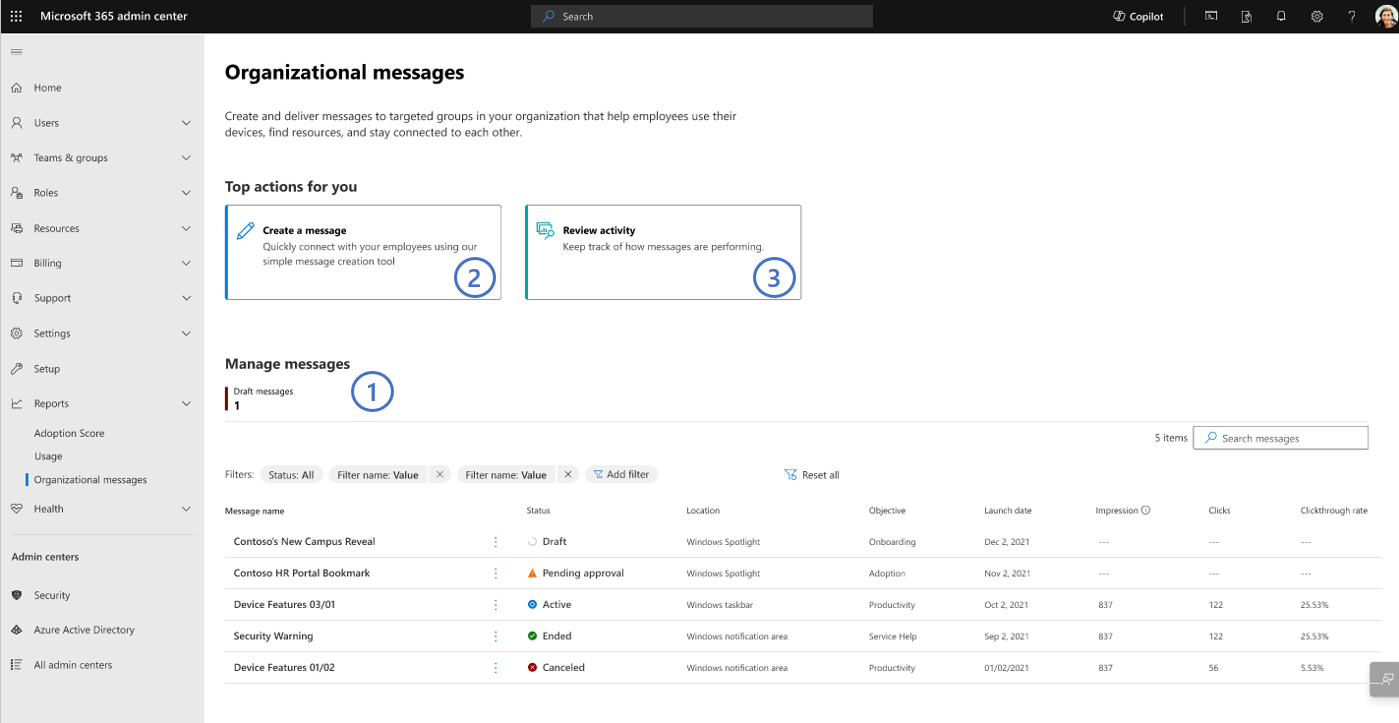
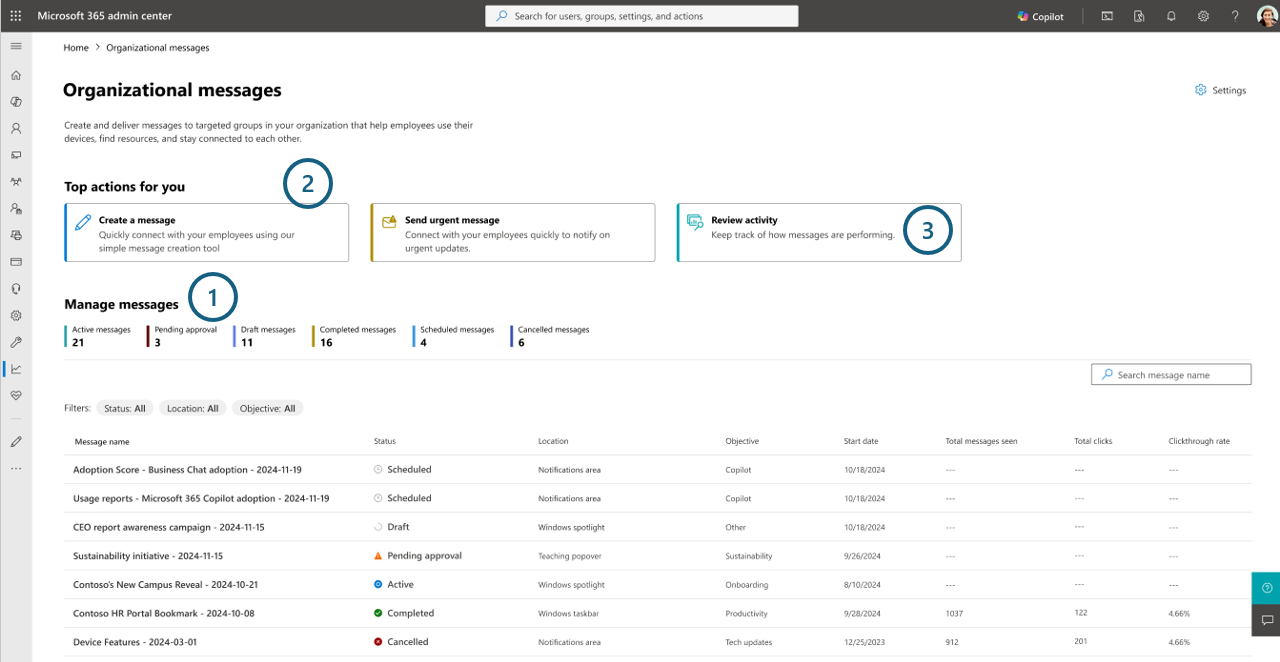
PM updates

diff --git a/microsoft-365/admin/misc/organizational-messages-microsoft-365.md b/microsoft-365/admin/misc/organizational-messages-microsoft-365.md
@@ -80,7 +80,7 @@ Before working with organizational messages, make sure your team satisfies the f
   - For example, any message configured to be delivered to a Windows channel, like Windows Spotlight, requires that recipients use **Windows 11 Enterprise**.
 
 > [!IMPORTANT]
-> During our preview period, Organizational messages preview experiences were not restricted based on the licenses held by participating tenants, authors, approvers, or message recipients. However, now that the product is in general availability, some organizational messages experiences are restricted to particular Microsoft licenses. To learn more, see [Premium features](#premium-features).
+> During our preview period, Organizational messages preview experiences were not restricted based on the licenses held by participating tenants, authors, approvers, or message recipients. However, now that the product is in general availability, some organizational messages experiences are restricted to particular Microsoft licenses. To learn more, see [Advanced features](#advanced-features).
 
 ## Get started
 
@@ -184,7 +184,7 @@ There are two primary forms of message creation that are enabled in this experie
 1. **Fully customized creation** (or 'create your own') – this is an open-ended format of entering in arbitrary content for messages, allowing your team to make messages that include your company name or other specifics that are unique to your company, group, or team. For example, an author can select ‘create your own’ and type all of the words of the message themselves.
 
 > [!NOTE]
-> The ability to create fully customized messages is enabled if your organization has at least one Microsoft license as described in the [Premium features](#premium-features) section.
+> The ability to create fully customized messages is enabled if your organization has at least one Microsoft license as described in the [Advanced features](#advanced-features) section.
 
 2. **Premade messages** (or ‘templatized’ messages) – this is a method of selecting and customizing content that is partially created by Microsoft for general purpose use. For example, Microsoft might provide various generic messages that your team can pick and add your logo and URL to drive awareness of a software update.
 
@@ -217,7 +217,7 @@ This advanced targeting in organizational messages can be enabled using the foll
 5. Select the “Organizational attributes” checkbox and then the “Turn on selected filters” button.
 
 > [!NOTE]
-> The ability to use advanced targeting options is enabled if your organization has at least one Microsoft license as described in the [Premium features](#premium-features) section.
+> The ability to use advanced targeting options is enabled if your organization has at least one Microsoft license as described in the [Advanced features](#advanced-features) section.
 
 ### How to create a message by copying an existing message
 
@@ -238,7 +238,7 @@ This advanced targeting in organizational messages can be enabled using the foll
 
 ### Urgent delivery
 
-For some time-sensitive communications, admins and other communicators might need to get a message out fast. For example, when an event is occurring on a corporate campus or a service outage has begun, admins might need to quickly broadcast such events to all employees so they can be prepared. To support communications in such events, admins in Microsoft 365 admin center will be able to select the ‘Urgent messages’ button in the “Top Actions” section.
+For some time-sensitive communications, admins and other communicators might need to get a message out fast. For example, when an event is occurring on a corporate campus or a service outage has begun, admins might need to quickly broadcast such events to some employees so they can be prepared. To support communications in such events, admins in Microsoft 365 admin center will be able to select the ‘Urgent messages’ button in the “Top Actions” section.
 
 The message creation experience for an urgent message is similar to the flow for creating other messages with these exceptions:
 
@@ -268,35 +268,34 @@ If you or your team would like to work with your tenant’s message performance 
 
 2. Select the **Export to CSV** button and save the file locally.
 
-## Premium features
+## Advanced features
 
-Starting with general availability, organizational messages will also introduce the concept of ‘premium’ features.  These experiences are ones within the Organizational messages Microsoft 365 admin center which have tenant and end user requirements as follows:
+Starting with general availability, organizational messages will also introduce the concept of ‘advanced’ features.  These experiences are ones within the Organizational messages Microsoft 365 admin center which have tenant and end user requirements as follows:
 
-### Tenant - accessing premium features when creating messages
+### Tenant - accessing advanced features when creating messages
 
-Premium features will be accessible to admins within Organizational messages in Microsoft 365 admin center when their tenant has one of the following:
+Advanced features will be accessible to admins within Organizational messages in Microsoft 365 admin center when their tenant has one of the following:
 
 1. -1+ Microsoft 365 E3-E5 licenses
-2. -1+ Office 365 E3-E5 licenses
+1. -1+ Office 365 E3-E5 licenses
+1. -1+ Windows 365 E3-E5 licenses
 
-    -1+ Windows 365 E3-E5 licenses
+### End user – receiving messages with advanced features
 
-### End user – receiving messages with premium features
-
-End users within a tenant will be eligible to receive messages created using premium features when these end users personally have one of the following:
+End users within a tenant will be eligible to receive messages created using advanced features when these end users personally have one of the following:
 
 - Microsoft 365 E3-E5 license
 - Office 365 E3-E5 license
 - Windows 365 E3-E5 license
 
-### Current premium features
+### Current advanced features
 
-For general availability, the premium features in Organizational messages in Microsoft 365 admin center are the following:
+For general availability, the advanced features in Organizational messages in Microsoft 365 admin center are the following:
 
 1. Fully customized message creation
 
 > [!NOTE]
-> In general availability, message authors whose tenant satisfies premium feature requirements will be able to Edit a templatized message within the message creation flow.
+> In general availability, message authors whose tenant satisfies advanced feature requirements will be able to Edit a templatized message within the message creation flow.
 
 2. Advanced targeting – group level aggregates (Department, Location, Company)
 
@@ -364,7 +363,7 @@ If using Device Restrictions, follow these steps:
 
 For non-urgent messages, after your message has been scheduled by the Organizational Messages platform (for example, after approval from your Organizational Messages approvers is acquired as needed), at the earliest, it will take a few hours before the message will be eligible to be delivered to end user devices. For example, if you set the Start Date to be now/today, you should expect a few hours before any end user devices in your testing tenant receive the message payload.
 
-Further, Windows buffers messages on a set period for each of the channels. (In other words, this experience is delivered on a ‘pull’ model.) So, expect that your message might take 24 or more hours for targeted end users in your testing tenant to receive and render the message as their devices might be configured to request content at different times.
+Further, Windows buffers messages on a set period for each of the channels. (In other words, this experience is delivered on a ‘pull’ model.) So, expect that your message might take 24 or more hours for targeted end users in your tenant to receive and render the message as their devices might be configured to request content at different times.
 
 Once your message has been actively delivering for over 24 hours, you can return to the Manage experience to review the latest delivery data for your message.
 
@@ -391,7 +390,7 @@ The Organizational messages centralized experience is the ‘one-stop-shop’ fo
 
 ### Why do I need to update my MDM policies?
 
-The MDM policies listed under Prerequisites control whether the service delivering the messages is able to access each location where organizational messages could be delivered. Previously, the CSPs only affected consumer scenarios and controlled whether Microsoft messaging can be delivered, however, since we’re using the same service, the policies affect admin-created messages as well.
+The MDM policies listed under **Setting tenant policies** control whether the service delivering the messages is able to access each location where organizational messages could be delivered. Previously, the CSPs only affected consumer scenarios and controlled whether Microsoft messaging can be delivered, however, since we’re using the same service, the policies affect admin-created messages as well.
 
 ### How can I get my MDM settings for troubleshooting purposes?
 
@@ -473,11 +472,11 @@ For example, if the Organizational Messages Writer (admin) selects message A to 
 
 For example, if the Organizational Messages Writer (admin) has their Microsoft 365 admin center product language set to French when they create their message B from scratch, end users with related product language set to English will not receive the message B. However, end users with French set as their related product language will qualify to receive the message B.
 
-### Does Organizational messages support government environments, such as GCC, GCCH, etc.?
+### Does Organizational Messages support government environments, such as GCC, GCCH, etc.?
 
 No, not at this time.
 
-### Our team previously authored messages for the Windows Get Started location within the Organizational messages experience in Intune/Microsoft Endpoint Manager – can we still do that in this experience within Microsoft 365 admin center? 
+### Our team previously authored messages for the Windows Get Started location within the Organizational messages experience in Intune/Microsoft Endpoint Manager – can we still do that in this experience within Microsoft 365 admin center?
 
 Any Get Started messages that you created in Organizational messages experience within Intune/Microsoft Endpoint Manager that have not completed can be viewed within the Microsoft 365 admin center experience.  However, new Get Started message creation is not yet supported at this time.
 
@@ -491,8 +490,8 @@ Based on customer feedback, organizational messages now delivers to both Windows
 
 ### My tenant only wants our end users to see messages from us, not Microsoft; how can we do that?
 
-After your admins enable all of the policies described in the above section on “Setting Tenant Policies”, you can then go to the ‘Settings’ feature within the Organizational messages in Microsoft 365 admin center portal (top right corner of the landing page), deselect the option “Allow Microsoft messages to display”, and click ‘Save’.  This will ensure Organizational messages platform sends only your team’s messages to Windows surfaces, like Taskbar.
+After your admins enable all of the policies described in the above section on “Setting Tenant Policies”, you can then go to the ‘Settings’ feature within the Organizational messages in Microsoft 365 admin center portal (top right corner of the landing page), deselect the option “Allow Microsoft messages to display”, and select ‘Save’.  This will ensure Organizational messages platform sends only your team’s messages to Windows surfaces, like Taskbar.
 
-### If my organization only has an Office 365 E3 or E5 license, should I expect to be able to create fully customized messages on Windows locations, like Notifications area or Taskbar?  Likewise, if my organization only has a Windows E3 or E5 license, should I expect to be able to create fully customized messages on the Teams location?  
+### If my organization only has an Office 365 E3 or E5 license, should I expect to be able to create fully customized messages on Windows locations, like Notifications area or Taskbar?  Likewise, if my organization only has a Windows E3 or E5 license, should I expect to be able to create fully customized messages on the Teams location?
 
-No, the organizational messages creation flow will automatically disable authoring experiences that your tenant cannot access based on the license requirements listed in the [Premium features](#premium-features) section.  However, your organization may be able to create premade messages without such E3 or E5 licenses.  For example, your team will not be able to create a fully customized message on Windows locations if your organization does not have at least a Windows E3 or E5 license or an Microsoft 365 E3 or E5 license.  Similarly, your team will not be able to create a fully customized message on the Teams location if your organization does not have at least an Office 365 E3 or E5 license or a Microsoft 365 E3 or E5 license.
+No, the organizational messages creation flow will automatically disable authoring experiences that your tenant can't access based on the license requirements listed in the [Advanced features](#advanced-features) section.  However, your organization may be able to create premade messages without such E3 or E5 licenses.  For example, your team will not be able to create a fully customized message on Windows locations if your organization does not have at least a Windows E3 or E5 license or an Microsoft 365 E3 or E5 license.  Similarly, your team will not be able to create a fully customized message on the Teams location if your organization does not have at least an Office 365 E3 or E5 license or a Microsoft 365 E3 or E5 license.

diff --git a/microsoft-365/admin/activity-reports/microsoft-365-copilot-readiness.md b/microsoft-365/admin/activity-reports/microsoft-365-copilot-readiness.md
@@ -29,7 +29,7 @@ description: "Learn about the Microsoft 365 Copilot readiness report and how it 
 
 The Microsoft 365 Usage dashboard shows you the activity overview across the Microsoft 365 apps in your organization. It enables you to drill into individual product-level reports to give you more granular insight about the activities within each app. To view all reports, check out the [Reports overview article](activity-reports.md).
 
-In the Microsoft 365 Copilot readiness report, which is in continuous enhancement, you can view which users are technically eligible for Copilot, assign licenses, and monitor usage of Microsoft 365 apps that Copilot integrates best with. The report becomes available within 72 hours, and once available, the usage data shown on the report can have up to a maximum of 72 hours latency. [filler change].
+In the Microsoft 365 Copilot readiness report, which is in continuous enhancement, you can view which users are technically eligible for Copilot, assign licenses, and monitor usage of Microsoft 365 apps that Copilot integrates best with. The report becomes available within 72 hours, and once available, the usage data shown on the report can have up to a maximum of 72 hours latency.
 
 ## How do I get to the Microsoft 365 Copilot report?
 
